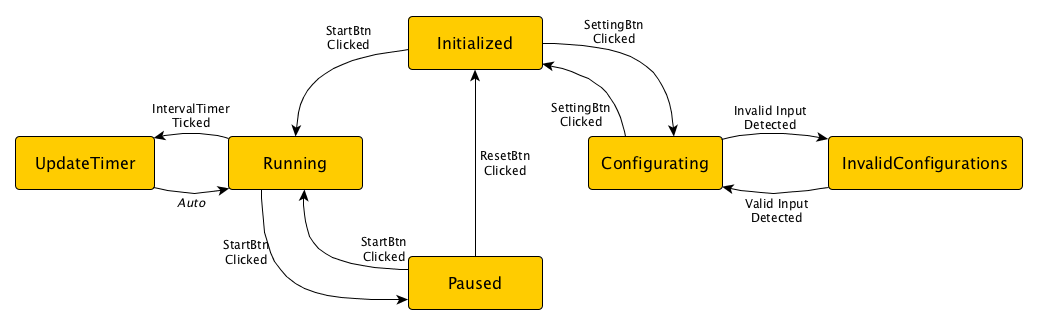
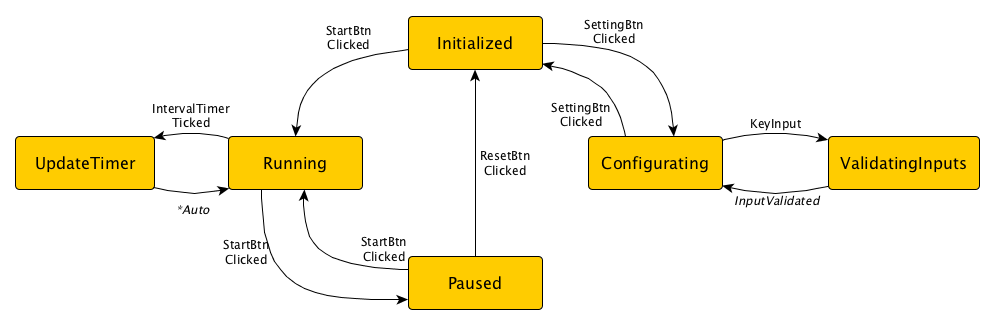
Updated documents; Finished all the view configurations in the state machine code.

diff --git a/index.js b/index.js
@@ -1,6 +1,7 @@
 /* Constants */
 
 var MAX_SETS = 99
+var MIN_SETS = 1
 var MAX_MINS = 59
 var MAX_SECS = 59
 
@@ -25,10 +26,10 @@ function TimingSpec (warmupSecs, highSecs, lowSecs, cooldownSecs, totalSets) {
    *
    */
   try {
-    this.warmupSecs = this.parseTime(warmupSecs)
-    this.highSecs = this.parseTime(highSecs)
-    this.lowSecs = this.parseTime(lowSecs)
-    this.cooldownSecs = this.parseTime(cooldownSecs)
+    this.warmupSecs = TimingSpec.parseTime(warmupSecs)
+    this.highSecs = TimingSpec.parseTime(highSecs)
+    this.lowSecs = TimingSpec.parseTime(lowSecs)
+    this.cooldownSecs = TimingSpec.parseTime(cooldownSecs)
   } catch (e) {
     throw new Error('Unable to create TimingSpec: ' + e.message)
   }
@@ -43,8 +44,8 @@ function TimingSpec (warmupSecs, highSecs, lowSecs, cooldownSecs, totalSets) {
     this.totalSets = totalSets
   }
 }
-TimingSpec.prototype.parseTime = function (strOrNumber) {
-  /* UNBOUND METHOD
+TimingSpec.parseTime = function (strOrNumber) {
+  /* STATIC METHOD
    *
    * Parse a string "MM:SS" into seconds. If it's number, check the value and
    * returns it directly.
@@ -183,6 +184,208 @@ function HiitTimer (tSpec, onIntervalChange, onCounterChange, onDoneSetsChange) 
     }
     if (prevDoneSets !== this.doneSets && this.onDoneSetsChange !== undefined) {
       this.onDoneSetsChange()
+    }
+  }
+}
+
+function HiitViewStateMachine () {
+  /* Internal states */
+  var tSpec = new TimingSpec(15, 20, 40, 300, 20)
+  var hiitTimer = new HiitTimer(tSpec)
+
+  /* Events */
+  this.Event = {
+    StartBtnClicked: 1,
+    SettingBtnClicked: 2,
+    ResetBtnClicked: 3,
+    IntervalTimerTicked: 4,
+    KeyInput: 5,
+    InputValidated: 6,
+    InputInvalidDetected: 7,
+    Auto: 8
+  }
+
+  /* Display elements */
+  function setTimerValue (secs) {
+    /* Set the main countdown timer value */
+    var timerValue = document.getElementById('timer-value')
+    if (secs === null) {
+      timerValue.textContent = '--:--'
+    } else {
+      var minPart = Math.floor(secs / 60)
+      var secPart = secs % 60
+      timerValue.textContent = zfill(minPart) + ':' + zfill(secPart)
+    }
+  }
+
+  function setSetsValue (remain, total) {
+    var setsValue = document.getElementById('sets-value')
+    /* Set the 'finished/total' sets value */
+    if (remain === null) {
+      setsValue.textContent = '--/--'
+    } else {
+      setsValue.textContent = zfill(remain) + '/' + zfill(total)
+    }
+  }
+
+  function setTimerBackground (intervalState) {
+    /* Sets the background of the timer block by the HIIT interval */
+    var style = document.querySelector('.timer-status').style
+    switch (hiitTimer.currentState) {
+      case hiitTimer.IntervalState.WARMUP:
+        style.backgroundColor = 'yellow'
+        break
+      case hiitTimer.IntervalState.HIGH:
+        style.backgroundColor = 'red'
+        break
+      case hiitTimer.IntervalState.LOW:
+        style.backgroundColor = 'green'
+        break
+      case hiitTimer.IntervalState.COOLDOWN:
+        style.backgroundColor = 'blue'
+        break
+      case hiitTimer.IntervalState.DONE:
+        style.backgroundColor = 'yellow'
+        break
+    }
+  }
+
+  /* Buttons */
+  var settingBtn = document.getElementById('setting-btn')
+  var startBtn = document.getElementById('start-btn')
+  var resetBtn = document.getElementById('reset-btn')
+
+  /* Input container */
+  var inputContainer = document.querySelector('div.setting')
+
+  /* Input fields */
+  var inputFields = {
+    warmup: document.querySelector('.setting input.warmup'),
+    high: document.querySelector('.setting input.high'),
+    low: document.querySelector('.setting input.low'),
+    cooldown: document.querySelector('.setting input.cooldown'),
+    sets: document.querySelector('.setting input.sets')
+  }
+
+  /* States */
+  this.stateInitialized = function () {
+    hiitTimer = new HiitTimer(tSpec)
+    setTimerValue(hiitTimer.counter)
+    setSetsValue(hiitTimer.doneSets, tSpec.totalSets)
+    setTimerBackground(255, 255, 0, 1)
+    startBtn.textContent = 'Start'
+    startBtn.disabled = false
+    resetBtn.textContent = 'Reset'
+    resetBtn.disabled = true
+    settingBtn.textContent = 'Setting'
+    settingBtn.disabled = false
+    inputContainer.style.display = 'none'
+  }
+
+  this.stateRunning = function () {
+    setTimerValue(hiitTimer.counter)
+    setSetsValue(hiitTimer.doneSets, tSpec.totalSets)
+    setTimerBackground(hiitTimer.currentState)
+    startBtn.textContent = 'Pause'
+    startBtn.disabled = false
+    resetBtn.textContent = 'Reset'
+    resetBtn.disabled = true
+    settingBtn.textContent = 'Setting'
+    settingBtn.disabled = true
+    inputContainer.style.display = 'none'
+  }
+
+  this.stateUpdateTimer = function () {
+    hiitTimer.tick()
+  }
+
+  this.statePaused = function () {
+    setTimerValue(hiitTimer.counter)
+    setSetsValue(hiitTimer.doneSets, tSpec.totalSets)
+    setTimerBackground(hiitTimer.currentState)
+    startBtn.textContent = 'Start'
+    startBtn.disabled = false
+    resetBtn.textContent = 'Reset'
+    resetBtn.disabled = false
+    settingBtn.textContent = 'Setting'
+    settingBtn.disabled = true
+    inputContainer.style.display = 'none'
+  }
+
+  this.stateConfigurating = function () {
+    setTimerValue(null)
+    setSetsValue(null)
+    setTimerBackground(255, 255, 0, 1)
+    startBtn.textContent = 'Start'
+    startBtn.disabled = true
+    resetBtn.textContent = 'Reset'
+    resetBtn.disabled = true
+    settingBtn.textContent = 'Setting'
+    settingBtn.disabled = false
+    inputContainer.style.display = 'flex'
+  }
+
+  this.stateValidatingInputs = function () {
+    setTimerValue(null)
+    setSetsValue(null)
+    setTimerBackground(255, 255, 0, 1)
+    startBtn.textContent = 'Start'
+    startBtn.disabled = true
+    resetBtn.textContent = 'Reset'
+    resetBtn.disabled = true
+    settingBtn.textContent = 'Setting'
+    settingBtn.disabled = true
+    inputContainer.style.display = 'flex'
+    /* Validating input fields */
+    // XXX This is embarrassing... Repeated try catch block !?
+    // Dude, for real?
+    var allPassed = true
+    try {
+      TimingSpec.parseTime(inputFields.warmup.value)
+      inputFields.warmup.style.background = 'white'
+    } catch (e) {
+      inputFields.warmup.style.background = 'red'
+      allPassed = false
+    }
+
+    try {
+      TimingSpec.parseTime(inputFields.high.value)
+      inputFields.high.style.background = 'white'
+    } catch (e) {
+      inputFields.high.style.background = 'red'
+      allPassed = false
+    }
+
+    try {
+      TimingSpec.parseTime(inputFields.low.value)
+      inputFields.low.style.background = 'white'
+    } catch (e) {
+      inputFields.low.style.background = 'red'
+      allPassed = false
+    }
+
+    try {
+      TimingSpec.parseTime(inputFields.cooldown.value)
+      inputFields.cooldown.style.background = 'white'
+    } catch (e) {
+      inputFields.cooldown.style.background = 'red'
+      allPassed = false
+    }
+
+    var parsed = parseInt(inputFields.sets === null)
+    if (parsed === null || parsed > MAX_SETS || parsed < MIN_SETS) {
+      inputFields.sets.style.background = 'red'
+      allPassed = false
+    } else {
+      inputFields.sets.style.background = 'white'
+    }
+    if (allPassed) {
+      console.log('All inputs are validated. New timing spec. created.')
+      tSpec = new TimingSpec(inputFields.warmup.value,
+                             inputFields.high.value,
+                             inputFields.low.value,
+                             inputFields.cooldown.value,
+                             inputFields.sets.value)
     }
   }
 }
@@ -354,4 +557,4 @@ function main () {
   })
 }
 
-main()
+// main()

diff --git a/README.md b/README.md
@@ -15,6 +15,7 @@ This is a purely client-side application, just clone it and open 'index.html' to
 * UpdateTimer
 * Paused
 * Configurating
+* ValidatingInput
 * InvalidConfigurations
 
 #### Events
@@ -22,13 +23,18 @@ This is a purely client-side application, just clone it and open 'index.html' to
 * StartBtnClicked
 * SettingBtnClicked
 * ResetBtnClicked
-* InvalidInputDetected
-* ValidInputDetected
 * InvervalTimerTicked
+* KeyInput (On input fields)
+* *Input Validated*
+* *Input Invalid Detected*
+* *Auto (Automatically triggered)*
+
+Note: Events in italic font are triggered by the state machine itself.
 
 ### Views (Display elements)
 
 * Counter
+* CounterBackground
 * SetsIndicator
 * StartBtn
 * ResetBtn
@@ -40,13 +46,16 @@ This is a purely client-side application, just clone it and open 'index.html' to
 * CooldownInput
 * SetsInput
 
-### Views under each state
+### Actions and appearance under each state
 
 #### Initialized
+
+* HiitTimer instance should be reinitialized by the tSpec.
 
 |   | Display | Text/Appearance |
 | - | ------- | ---- |
 | Counter | Show | Timer value |
+| CounterBackground | Show | Yellow |
 | SetsIndicator | Show | Sets value |
 | StartBtn | Enabled | "Start" |
 | ResetBtn | Disabled | "Reset" |
@@ -65,6 +74,7 @@ This is a purely client-side application, just clone it and open 'index.html' to
 |   | Display | Text/Appearance |
 | - | ------- | ---- |
 | Counter | Show | Timer value |
+| CounterBackground | Show | Depends on interval |
 | SetsIndicator | Show | Sets value |
 | StartBtn | Enabled | "Paused" |
 | ResetBtn | Disabled | "Reset" |
@@ -83,6 +93,7 @@ This is a purely client-side application, just clone it and open 'index.html' to
 |   | Display | Text/Appearance |
 | - | ------- | ---- |
 | Counter | Show | Timer value |
+| CounterBackground | Show | Depends on interval |
 | SetsIndicator | Show | Sets value |
 | StartBtn | Enabled | "Start" |
 | ResetBtn | Enabled | "Reset" |
@@ -99,6 +110,7 @@ This is a purely client-side application, just clone it and open 'index.html' to
 |   | Display | Text/Appearance |
 | - | ------- | ---- |
 | Counter | Show | "--:--" |
+| CounterBackground | Show | Yellow |
 | SetsIndicator | Show | "--/--" |
 | StartBtn | Disabled | "Start" |
 | ResetBtn | Disabled | "Reset" |
@@ -110,11 +122,16 @@ This is a purely client-side application, just clone it and open 'index.html' to
 | CooldownInput | Show | - |
 | SetsInput | Show | - |
 
-#### InvalidConfigurations
+#### ValidatingInputs
+
+* Validating all the input fields. If any of the inputs is invalid, change its background to red.
+
+* If all inputs are valid, create new HiitTimer instance.
 
 |   | Display | Text/Appearance |
 | - | ------- | ---- |
 | Counter | Show | "--:--" |
+| CounterBackground | Show | Yellow |
 | SetsIndicator | Show | "--/--" |
 | StartBtn | Disabled | "Start" |
 | ResetBtn | Disabled | "Reset" |
